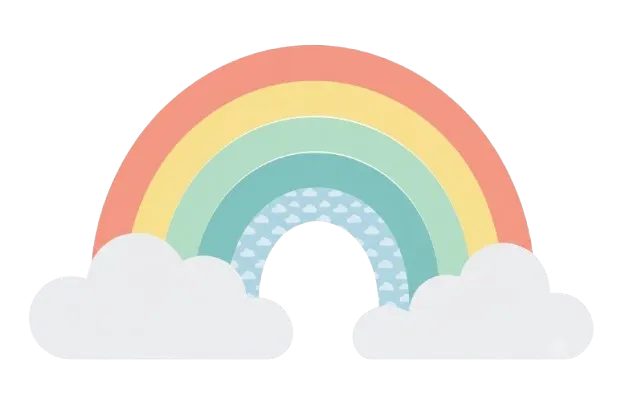
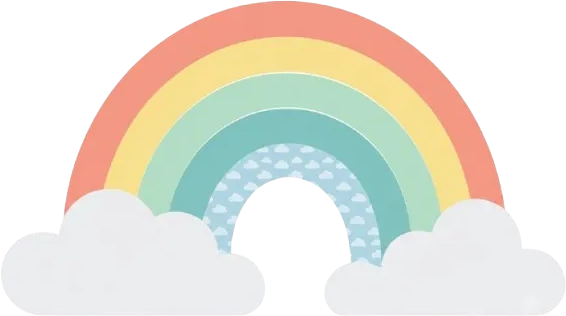
Refine hero rainbow placement and crop asset padding.
Crop transparent edges from the rainbow image and adjust positioning so it sits higher and flush against the hero bottom-right corner.

Changed region(s): [[0.0901, 0.0, 0.9011, 0.8544]]

diff --git a/src/component/home/HeroSection.jsx b/src/component/home/HeroSection.jsx
@@ -8,7 +8,7 @@ function HeroSection() {
       <img
         src={heroRainbow}
         alt=""
-        className="pointer-events-none absolute right-0 bottom-0 z-30 h-auto w-52 object-contain object-bottom-right sm:w-64 lg:w-80"
+        className="pointer-events-none absolute -right-3 bottom-5 z-30 block w-52 sm:-right-4 sm:bottom-6 sm:w-64 lg:w-80"
       />
 
       <HeroDecorations />
